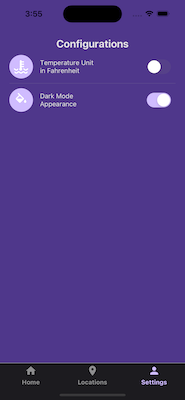
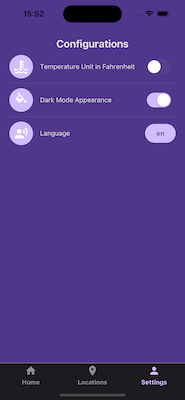
Settings screenshots for localization

diff --git a/app/redux/location/locationActions.js b/app/redux/location/locationActions.js
@@ -2,12 +2,7 @@ import {
     SET_CURRENT_LOCATION,
 } from "./locationTypes";
 
-// {
-//     latitude: location.latitude,
-//     longitude: location.longitude,
-//     place: weatherDetails.city.name,
-//     uuid: weatherDetails.uuid,
-// }
+// info: SaveLocationModel
 export const setCurrentLocation = (info = {}) => {
     return {
         type: SET_CURRENT_LOCATION,

diff --git a/README.md b/README.md
@@ -29,6 +29,7 @@ React Native Training Assessment Project
 <p float="left">
 	<img src="screenshots/settings-dark-mode.png" alt="settings-dark-mode" height="400">
 	<img src="screenshots/settings-light-mode.png" alt="settings-light-mode" height="400">
+	<img src="screenshots/settings-localization.png" alt="settings-localization" height="400">
 </p>
 
 ## Functionality
